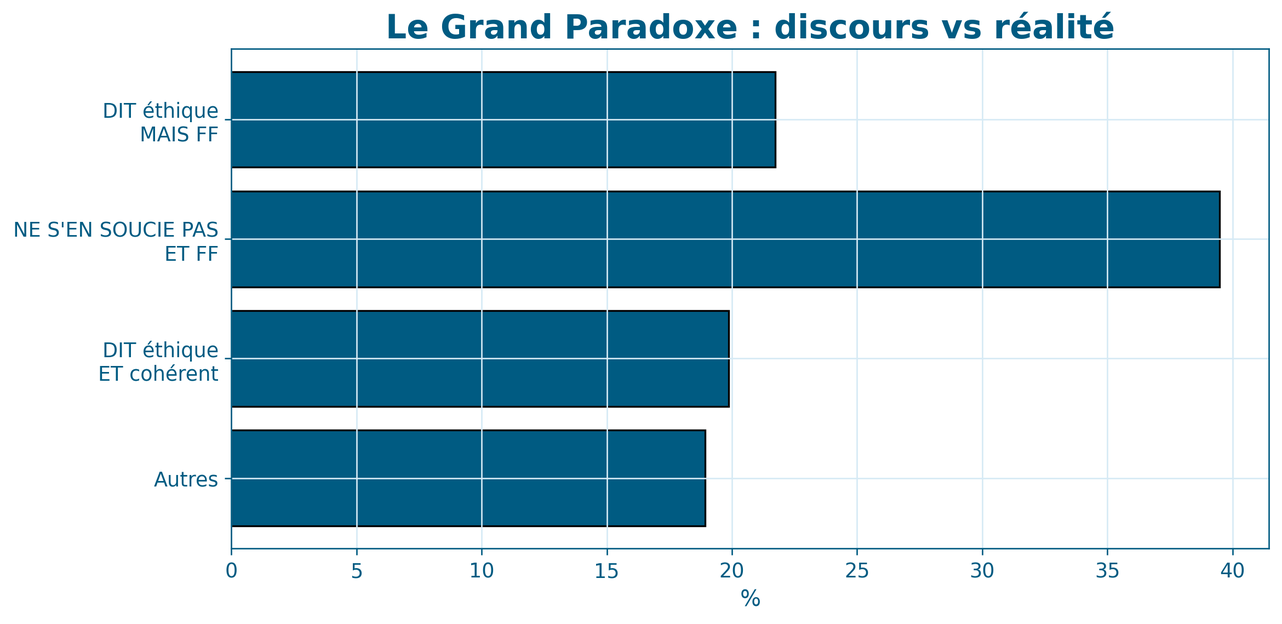
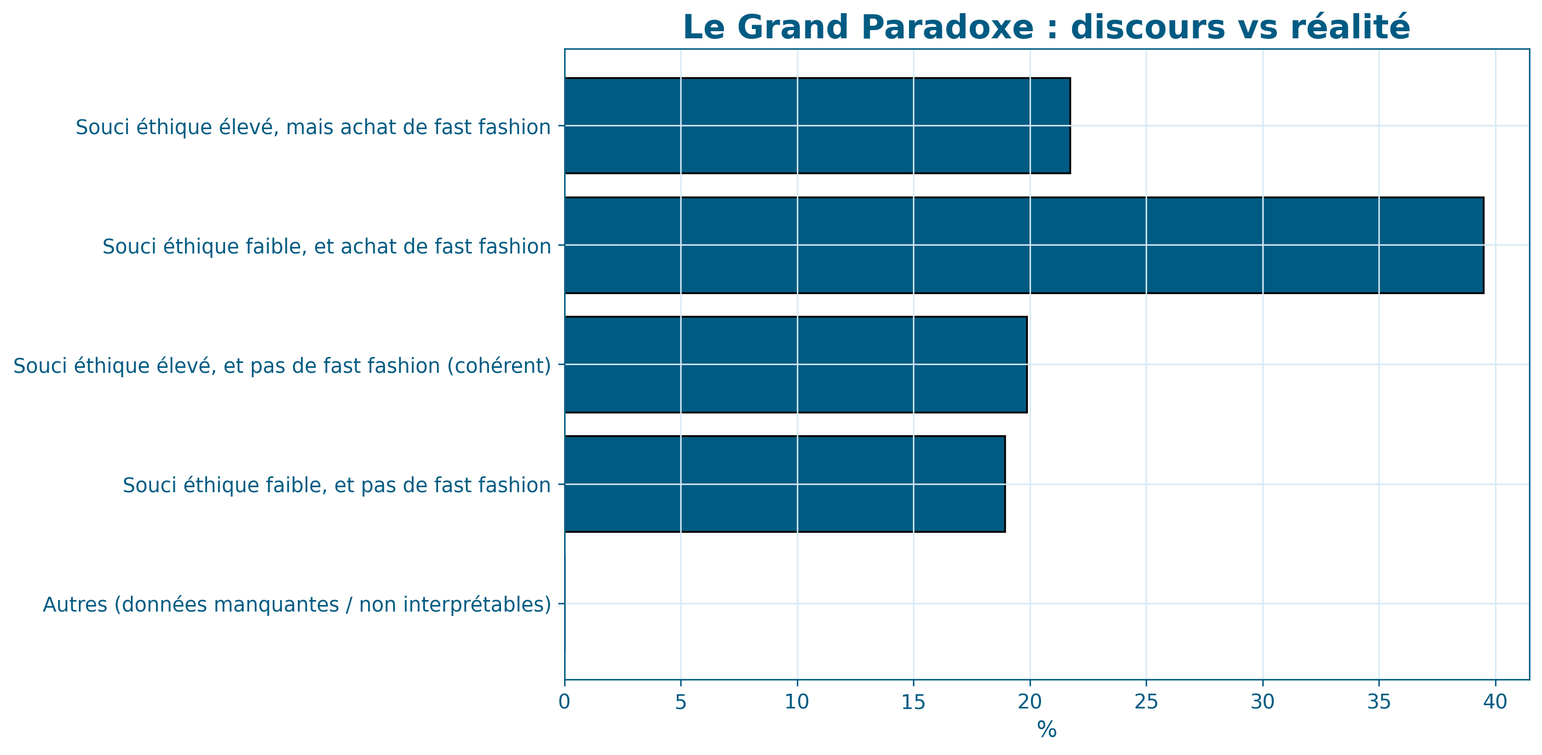
update visuals and paradoxe labels

diff --git a/reports/sankey_cycle_complet_4_etapes.html b/reports/sankey_cycle_complet_4_etapes.html
@@ -2,6 +2,6 @@
 <head><meta charset="utf-8" /></head>
 <body>
     <div>                        <script type="text/javascript">window.PlotlyConfig = {MathJaxConfig: 'local'};</script>
-        <script charset="utf-8" src="https://cdn.plot.ly/plotly-2.24.1.min.js"></script>                <div id="2e2feb70-bd9f-4e1d-afcc-3029fe0908e0" class="plotly-graph-div" style="height:100%; width:100%;"></div>            <script type="text/javascript">                                    window.PLOTLYENV=window.PLOTLYENV || {};                                    if (document.getElementById("2e2feb70-bd9f-4e1d-afcc-3029fe0908e0")) {                    Plotly.newPlot(                        "2e2feb70-bd9f-4e1d-afcc-3029fe0908e0",                        [{"link":{"source":[0,1,2,0,1,2,0,1,2,0,1,2,0,1,7,0,1,7,0,1,7,0,1,7,0,1,7,0,9,10,0,9,10,0,9,2,0,9,2,0,9,2,0,9,2,0,9,2,0,9,7,0,9,7,0,9,7,0,9,7,0,9,7,0,11,10,0,11,10,0,11,2,0,11,2,0,11,2,0,11,2,0,11,2,0,11,7,0,11,7,0,11,7,0,11,7,0,11,7,0,12,2,0,12,7,0,12,7,0,12,7,0,12,7,13,1,2,13,1,2,13,1,2,13,1,2,13,1,2,13,1,7,13,1,7,13,1,7,13,1,7,13,1,7,13,9,10,13,9,2,13,9,2,13,9,2,13,9,2,13,9,2,13,9,7,13,9,7,13,9,7,13,9,7,13,9,7,13,11,10,13,11,2,13,11,2,13,11,2,13,11,2,13,11,2,13,11,7,13,11,7,13,11,7,13,11,7,13,11,7,13,12,7,13,12,7,13,12,7,14,1,7,14,1,7,14,1,7,14,1,7,14,9,2,14,9,2,14,9,2,14,9,7,14,9,7,14,9,7,14,9,7,14,11,2,14,11,2,14,11,2,14,11,7,14,11,7,14,11,7,14,11,7,14,12,7,14,12,7,15,1,10,15,1,2,15,1,7,15,1,7,15,1,7,15,1,7,15,1,7,15,9,2,15,9,2,15,9,2,15,9,2,15,9,7,15,9,7,15,9,7,15,9,7,15,9,7,15,11,10,15,11,2,15,11,2,15,11,2,15,11,2,15,11,2,15,12,10,16,1,2,16,1,2,16,1,2,16,1,2,16,1,2,16,1,7,16,1,7,16,1,7,16,1,7,16,1,7,16,9,2,16,9,2,16,9,2,16,9,2,16,9,2,16,9,7,16,9,7,16,9,7,16,9,7,16,9,7,16,11,10,16,11,10,16,11,2,16,11,2,16,11,2,16,11,2,16,11,2,16,11,7,16,11,7,16,11,7,16,11,7,16,11,7,16,12,2,16,12,2,16,12,2,16,12,2,16,12,2,16,12,7,16,12,7,16,12,7,16,12,7,16,12,7,17,1,2,17,1,2,17,1,2,17,1,2,17,1,2,17,1,7,17,1,7,17,1,7,17,1,7,17,1,7,17,9,10,17,9,10,17,9,10,17,9,2,17,9,2,17,9,2,17,9,2,17,9,2,17,9,7,17,9,7,17,9,7,17,9,7,17,9,7,17,11,10,17,11,10,17,11,2,17,11,2,17,11,2,17,11,2,17,11,2,17,11,7,17,11,7,17,11,7,17,11,7,17,11,7,17,12,10,17,12,2,17,12,2,17,12,2,17,12,7,17,12,7,17,12,7,17,12,7],"target":[1,2,3,1,2,4,1,2,5,1,2,6,1,7,3,1,7,4,1,7,8,1,7,5,1,7,6,9,10,3,9,10,8,9,2,3,9,2,4,9,2,8,9,2,5,9,2,6,9,7,3,9,7,4,9,7,8,9,7,5,9,7,6,11,10,3,11,10,8,11,2,3,11,2,4,11,2,8,11,2,5,11,2,6,11,7,3,11,7,4,11,7,8,11,7,5,11,7,6,12,2,5,12,7,3,12,7,4,12,7,5,12,7,6,1,2,3,1,2,4,1,2,8,1,2,5,1,2,6,1,7,3,1,7,4,1,7,8,1,7,5,1,7,6,9,10,6,9,2,3,9,2,4,9,2,8,9,2,5,9,2,6,9,7,3,9,7,4,9,7,8,9,7,5,9,7,6,11,10,6,11,2,3,11,2,4,11,2,8,11,2,5,11,2,6,11,7,3,11,7,4,11,7,8,11,7,5,11,7,6,12,7,3,12,7,5,12,7,6,1,7,3,1,7,4,1,7,5,1,7,6,9,2,3,9,2,4,9,2,5,9,7,3,9,7,4,9,7,5,9,7,6,11,2,3,11,2,4,11,2,5,11,7,3,11,7,4,11,7,5,11,7,6,12,7,3,12,7,4,1,10,4,1,2,3,1,7,3,1,7,4,1,7,8,1,7,5,1,7,6,9,2,3,9,2,4,9,2,8,9,2,6,9,7,3,9,7,4,9,7,8,9,7,5,9,7,6,11,10,8,11,2,3,11,2,4,11,2,8,11,2,5,11,2,6,12,10,4,1,2,3,1,2,4,1,2,8,1,2,5,1,2,6,1,7,3,1,7,4,1,7,8,1,7,5,1,7,6,9,2,3,9,2,4,9,2,8,9,2,5,9,2,6,9,7,3,9,7,4,9,7,8,9,7,5,9,7,6,11,10,3,11,10,4,11,2,3,11,2,4,11,2,8,11,2,5,11,2,6,11,7,3,11,7,4,11,7,8,11,7,5,11,7,6,12,2,3,12,2,4,12,2,8,12,2,5,12,2,6,12,7,3,12,7,4,12,7,8,12,7,5,12,7,6,1,2,3,1,2,4,1,2,8,1,2,5,1,2,6,1,7,3,1,7,4,1,7,8,1,7,5,1,7,6,9,10,3,9,10,8,9,10,5,9,2,3,9,2,4,9,2,8,9,2,5,9,2,6,9,7,3,9,7,4,9,7,8,9,7,5,9,7,6,11,10,3,11,10,8,11,2,3,11,2,4,11,2,8,11,2,5,11,2,6,11,7,3,11,7,4,11,7,8,11,7,5,11,7,6,12,10,3,12,2,3,12,2,4,12,2,6,12,7,3,12,7,4,12,7,8,12,7,6],"value":[3,3,3,2,2,2,2,2,2,2,2,2,8,8,8,4,4,4,1,1,1,5,5,5,6,6,6,1,1,1,2,2,2,4,4,4,2,2,2,1,1,1,3,3,3,2,2,2,12,12,12,5,5,5,1,1,1,3,3,3,8,8,8,1,1,1,1,1,1,20,20,20,6,6,6,5,5,5,7,7,7,9,9,9,17,17,17,9,9,9,3,3,3,3,3,3,7,7,7,1,1,1,3,3,3,2,2,2,2,2,2,1,1,1,4,4,4,4,4,4,1,1,1,1,1,1,4,4,4,10,10,10,7,7,7,2,2,2,4,4,4,6,6,6,1,1,1,10,10,10,6,6,6,1,1,1,1,1,1,7,7,7,37,37,37,20,20,20,6,6,6,7,7,7,27,27,27,1,1,1,19,19,19,7,7,7,3,3,3,1,1,1,15,15,15,40,40,40,18,18,18,9,9,9,9,9,9,28,28,28,5,5,5,1,1,1,2,2,2,2,2,2,1,1,1,1,1,1,1,1,1,3,3,3,1,1,1,1,1,1,10,10,10,3,3,3,1,1,1,5,5,5,2,2,2,1,1,1,1,1,1,8,8,8,4,4,4,1,1,1,6,6,6,1,1,1,1,1,1,1,1,1,1,1,1,3,3,3,1,1,1,1,1,1,3,3,3,1,1,1,1,1,1,1,1,1,1,1,1,1,1,1,3,3,3,1,1,1,1,1,1,3,3,3,1,1,1,2,2,2,4,4,4,1,1,1,1,1,1,1,1,1,2,2,2,2,2,2,10,10,10,5,5,5,2,2,2,5,5,5,5,5,5,19,19,19,11,11,11,4,4,4,6,6,6,18,18,18,8,8,8,5,5,5,4,4,4,3,3,3,6,6,6,38,38,38,21,21,21,11,11,11,10,10,10,14,14,14,2,2,2,1,1,1,25,25,25,9,9,9,4,4,4,7,7,7,12,12,12,56,56,56,33,33,33,12,12,12,17,17,17,28,28,28,3,3,3,1,1,1,1,1,1,3,3,3,1,1,1,9,9,9,2,2,2,4,4,4,3,3,3,7,7,7,10,10,10,6,6,6,1,1,1,5,5,5,4,4,4,11,11,11,4,4,4,5,5,5,1,1,1,7,7,7,1,1,1,1,1,1,1,1,1,15,15,15,8,8,8,2,2,2,10,10,10,5,5,5,34,34,34,21,21,21,15,15,15,6,6,6,21,21,21,2,2,2,1,1,1,29,29,29,16,16,16,7,7,7,12,12,12,11,11,11,38,38,38,21,21,21,14,14,14,9,9,9,25,25,25,1,1,1,2,2,2,1,1,1,1,1,1,4,4,4,3,3,3,3,3,3,2,2,2]},"node":{"color":"#007BA7","label":["Au moins une fois par an","Friperie \u002f Seconde main","Non, mais je connais ces plateformes","Je les donne","Je les garde sans les utiliser","Je les recycle","Je les vends","Oui","Je les jette","Internet","Non, je ne connais pas ces plateformes","Magasin physique","March\u00e9 local","Au moins une fois par mois","Au moins une fois par semaine","Moins d'une fois par an","Tous les 2 \u00e0 3 mois","Tous les 4 \u00e0 6 mois"],"pad":15,"thickness":18},"type":"sankey"}],                        {"template":{"data":{"histogram2dcontour":[{"type":"histogram2dcontour","colorbar":{"outlinewidth":0,"ticks":""},"colorscale":[[0.0,"#0d0887"],[0.1111111111111111,"#46039f"],[0.2222222222222222,"#7201a8"],[0.3333333333333333,"#9c179e"],[0.4444444444444444,"#bd3786"],[0.5555555555555556,"#d8576b"],[0.6666666666666666,"#ed7953"],[0.7777777777777778,"#fb9f3a"],[0.8888888888888888,"#fdca26"],[1.0,"#f0f921"]]}],"choropleth":[{"type":"choropleth","colorbar":{"outlinewidth":0,"ticks":""}}],"histogram2d":[{"type":"histogram2d","colorbar":{"outlinewidth":0,"ticks":""},"colorscale":[[0.0,"#0d0887"],[0.1111111111111111,"#46039f"],[0.2222222222222222,"#7201a8"],[0.3333333333333333,"#9c179e"],[0.4444444444444444,"#bd3786"],[0.5555555555555556,"#d8576b"],[0.6666666666666666,"#ed7953"],[0.7777777777777778,"#fb9f3a"],[0.8888888888888888,"#fdca26"],[1.0,"#f0f921"]]}],"heatmap":[{"type":"heatmap","colorbar":{"outlinewidth":0,"ticks":""},"colorscale":[[0.0,"#0d0887"],[0.1111111111111111,"#46039f"],[0.2222222222222222,"#7201a8"],[0.3333333333333333,"#9c179e"],[0.4444444444444444,"#bd3786"],[0.5555555555555556,"#d8576b"],[0.6666666666666666,"#ed7953"],[0.7777777777777778,"#fb9f3a"],[0.8888888888888888,"#fdca26"],[1.0,"#f0f921"]]}],"heatmapgl":[{"type":"heatmapgl","colorbar":{"outlinewidth":0,"ticks":""},"colorscale":[[0.0,"#0d0887"],[0.1111111111111111,"#46039f"],[0.2222222222222222,"#7201a8"],[0.3333333333333333,"#9c179e"],[0.4444444444444444,"#bd3786"],[0.5555555555555556,"#d8576b"],[0.6666666666666666,"#ed7953"],[0.7777777777777778,"#fb9f3a"],[0.8888888888888888,"#fdca26"],[1.0,"#f0f921"]]}],"contourcarpet":[{"type":"contourcarpet","colorbar":{"outlinewidth":0,"ticks":""}}],"contour":[{"type":"contour","colorbar":{"outlinewidth":0,"ticks":""},"colorscale":[[0.0,"#0d0887"],[0.1111111111111111,"#46039f"],[0.2222222222222222,"#7201a8"],[0.3333333333333333,"#9c179e"],[0.4444444444444444,"#bd3786"],[0.5555555555555556,"#d8576b"],[0.6666666666666666,"#ed7953"],[0.7777777777777778,"#fb9f3a"],[0.8888888888888888,"#fdca26"],[1.0,"#f0f921"]]}],"surface":[{"type":"surface","colorbar":{"outlinewidth":0,"ticks":""},"colorscale":[[0.0,"#0d0887"],[0.1111111111111111,"#46039f"],[0.2222222222222222,"#7201a8"],[0.3333333333333333,"#9c179e"],[0.4444444444444444,"#bd3786"],[0.5555555555555556,"#d8576b"],[0.6666666666666666,"#ed7953"],[0.7777777777777778,"#fb9f3a"],[0.8888888888888888,"#fdca26"],[1.0,"#f0f921"]]}],"mesh3d":[{"type":"mesh3d","colorbar":{"outlinewidth":0,"ticks":""}}],"scatter":[{"fillpattern":{"fillmode":"overlay","size":10,"solidity":0.2},"type":"scatter"}],"parcoords":[{"type":"parcoords","line":{"colorbar":{"outlinewidth":0,"ticks":""}}}],"scatterpolargl":[{"type":"scatterpolargl","marker":{"colorbar":{"outlinewidth":0,"ticks":""}}}],"bar":[{"error_x":{"color":"#2a3f5f"},"error_y":{"color":"#2a3f5f"},"marker":{"line":{"color":"#E5ECF6","width":0.5},"pattern":{"fillmode":"overlay","size":10,"solidity":0.2}},"type":"bar"}],"scattergeo":[{"type":"scattergeo","marker":{"colorbar":{"outlinewidth":0,"ticks":""}}}],"scatterpolar":[{"type":"scatterpolar","marker":{"colorbar":{"outlinewidth":0,"ticks":""}}}],"histogram":[{"marker":{"pattern":{"fillmode":"overlay","size":10,"solidity":0.2}},"type":"histogram"}],"scattergl":[{"type":"scattergl","marker":{"colorbar":{"outlinewidth":0,"ticks":""}}}],"scatter3d":[{"type":"scatter3d","line":{"colorbar":{"outlinewidth":0,"ticks":""}},"marker":{"colorbar":{"outlinewidth":0,"ticks":""}}}],"scattermapbox":[{"type":"scattermapbox","marker":{"colorbar":{"outlinewidth":0,"ticks":""}}}],"scatterternary":[{"type":"scatterternary","marker":{"colorbar":{"outlinewidth":0,"ticks":""}}}],"scattercarpet":[{"type":"scattercarpet","marker":{"colorbar":{"outlinewidth":0,"ticks":""}}}],"carpet":[{"aaxis":{"endlinecolor":"#2a3f5f","gridcolor":"white","linecolor":"white","minorgridcolor":"white","startlinecolor":"#2a3f5f"},"baxis":{"endlinecolor":"#2a3f5f","gridcolor":"white","linecolor":"white","minorgridcolor":"white","startlinecolor":"#2a3f5f"},"type":"carpet"}],"table":[{"cells":{"fill":{"color":"#EBF0F8"},"line":{"color":"white"}},"header":{"fill":{"color":"#C8D4E3"},"line":{"color":"white"}},"type":"table"}],"barpolar":[{"marker":{"line":{"color":"#E5ECF6","width":0.5},"pattern":{"fillmode":"overlay","size":10,"solidity":0.2}},"type":"barpolar"}],"pie":[{"automargin":true,"type":"pie"}]},"layout":{"autotypenumbers":"strict","colorway":["#636efa","#EF553B","#00cc96","#ab63fa","#FFA15A","#19d3f3","#FF6692","#B6E880","#FF97FF","#FECB52"],"font":{"color":"#2a3f5f"},"hovermode":"closest","hoverlabel":{"align":"left"},"paper_bgcolor":"white","plot_bgcolor":"#E5ECF6","polar":{"bgcolor":"#E5ECF6","angularaxis":{"gridcolor":"white","linecolor":"white","ticks":""},"radialaxis":{"gridcolor":"white","linecolor":"white","ticks":""}},"ternary":{"bgcolor":"#E5ECF6","aaxis":{"gridcolor":"white","linecolor":"white","ticks":""},"baxis":{"gridcolor":"white","linecolor":"white","ticks":""},"caxis":{"gridcolor":"white","linecolor":"white","ticks":""}},"coloraxis":{"colorbar":{"outlinewidth":0,"ticks":""}},"colorscale":{"sequential":[[0.0,"#0d0887"],[0.1111111111111111,"#46039f"],[0.2222222222222222,"#7201a8"],[0.3333333333333333,"#9c179e"],[0.4444444444444444,"#bd3786"],[0.5555555555555556,"#d8576b"],[0.6666666666666666,"#ed7953"],[0.7777777777777778,"#fb9f3a"],[0.8888888888888888,"#fdca26"],[1.0,"#f0f921"]],"sequentialminus":[[0.0,"#0d0887"],[0.1111111111111111,"#46039f"],[0.2222222222222222,"#7201a8"],[0.3333333333333333,"#9c179e"],[0.4444444444444444,"#bd3786"],[0.5555555555555556,"#d8576b"],[0.6666666666666666,"#ed7953"],[0.7777777777777778,"#fb9f3a"],[0.8888888888888888,"#fdca26"],[1.0,"#f0f921"]],"diverging":[[0,"#8e0152"],[0.1,"#c51b7d"],[0.2,"#de77ae"],[0.3,"#f1b6da"],[0.4,"#fde0ef"],[0.5,"#f7f7f7"],[0.6,"#e6f5d0"],[0.7,"#b8e186"],[0.8,"#7fbc41"],[0.9,"#4d9221"],[1,"#276419"]]},"xaxis":{"gridcolor":"white","linecolor":"white","ticks":"","title":{"standoff":15},"zerolinecolor":"white","automargin":true,"zerolinewidth":2},"yaxis":{"gridcolor":"white","linecolor":"white","ticks":"","title":{"standoff":15},"zerolinecolor":"white","automargin":true,"zerolinewidth":2},"scene":{"xaxis":{"backgroundcolor":"#E5ECF6","gridcolor":"white","linecolor":"white","showbackground":true,"ticks":"","zerolinecolor":"white","gridwidth":2},"yaxis":{"backgroundcolor":"#E5ECF6","gridcolor":"white","linecolor":"white","showbackground":true,"ticks":"","zerolinecolor":"white","gridwidth":2},"zaxis":{"backgroundcolor":"#E5ECF6","gridcolor":"white","linecolor":"white","showbackground":true,"ticks":"","zerolinecolor":"white","gridwidth":2}},"shapedefaults":{"line":{"color":"#2a3f5f"}},"annotationdefaults":{"arrowcolor":"#2a3f5f","arrowhead":0,"arrowwidth":1},"geo":{"bgcolor":"white","landcolor":"#E5ECF6","subunitcolor":"white","showland":true,"showlakes":true,"lakecolor":"white"},"title":{"x":0.05},"mapbox":{"style":"light"}}},"title":{"text":"Cycle complet (Sankey - 4 \u00e9tapes, nettoy\u00e9)"},"font":{"size":10}},                        {"responsive": true}                    )                };                            </script>        </div>
+        <script charset="utf-8" src="https://cdn.plot.ly/plotly-2.24.1.min.js"></script>                <div id="52549331-e9a0-4959-b099-cc36701b4a4d" class="plotly-graph-div" style="height:100%; width:100%;"></div>            <script type="text/javascript">                                    window.PLOTLYENV=window.PLOTLYENV || {};                                    if (document.getElementById("52549331-e9a0-4959-b099-cc36701b4a4d")) {                    Plotly.newPlot(                        "52549331-e9a0-4959-b099-cc36701b4a4d",                        [{"link":{"source":[0,1,2,0,1,2,0,1,2,0,1,2,0,1,7,0,1,7,0,1,7,0,1,7,0,1,7,0,9,10,0,9,10,0,9,2,0,9,2,0,9,2,0,9,2,0,9,2,0,9,7,0,9,7,0,9,7,0,9,7,0,9,7,0,11,10,0,11,10,0,11,2,0,11,2,0,11,2,0,11,2,0,11,2,0,11,7,0,11,7,0,11,7,0,11,7,0,11,7,0,12,2,0,12,7,0,12,7,0,12,7,0,12,7,13,1,2,13,1,2,13,1,2,13,1,2,13,1,2,13,1,7,13,1,7,13,1,7,13,1,7,13,1,7,13,9,10,13,9,2,13,9,2,13,9,2,13,9,2,13,9,2,13,9,7,13,9,7,13,9,7,13,9,7,13,9,7,13,11,10,13,11,2,13,11,2,13,11,2,13,11,2,13,11,2,13,11,7,13,11,7,13,11,7,13,11,7,13,11,7,13,12,7,13,12,7,13,12,7,14,1,7,14,1,7,14,1,7,14,1,7,14,9,2,14,9,2,14,9,2,14,9,7,14,9,7,14,9,7,14,9,7,14,11,2,14,11,2,14,11,2,14,11,7,14,11,7,14,11,7,14,11,7,14,12,7,14,12,7,15,1,10,15,1,2,15,1,7,15,1,7,15,1,7,15,1,7,15,1,7,15,9,2,15,9,2,15,9,2,15,9,2,15,9,7,15,9,7,15,9,7,15,9,7,15,9,7,15,11,10,15,11,2,15,11,2,15,11,2,15,11,2,15,11,2,15,12,10,16,1,2,16,1,2,16,1,2,16,1,2,16,1,2,16,1,7,16,1,7,16,1,7,16,1,7,16,1,7,16,9,2,16,9,2,16,9,2,16,9,2,16,9,2,16,9,7,16,9,7,16,9,7,16,9,7,16,9,7,16,11,10,16,11,10,16,11,2,16,11,2,16,11,2,16,11,2,16,11,2,16,11,7,16,11,7,16,11,7,16,11,7,16,11,7,16,12,2,16,12,2,16,12,2,16,12,2,16,12,2,16,12,7,16,12,7,16,12,7,16,12,7,16,12,7,17,1,2,17,1,2,17,1,2,17,1,2,17,1,2,17,1,7,17,1,7,17,1,7,17,1,7,17,1,7,17,9,10,17,9,10,17,9,10,17,9,2,17,9,2,17,9,2,17,9,2,17,9,2,17,9,7,17,9,7,17,9,7,17,9,7,17,9,7,17,11,10,17,11,10,17,11,2,17,11,2,17,11,2,17,11,2,17,11,2,17,11,7,17,11,7,17,11,7,17,11,7,17,11,7,17,12,10,17,12,2,17,12,2,17,12,2,17,12,7,17,12,7,17,12,7,17,12,7],"target":[1,2,3,1,2,4,1,2,5,1,2,6,1,7,3,1,7,4,1,7,8,1,7,5,1,7,6,9,10,3,9,10,8,9,2,3,9,2,4,9,2,8,9,2,5,9,2,6,9,7,3,9,7,4,9,7,8,9,7,5,9,7,6,11,10,3,11,10,8,11,2,3,11,2,4,11,2,8,11,2,5,11,2,6,11,7,3,11,7,4,11,7,8,11,7,5,11,7,6,12,2,5,12,7,3,12,7,4,12,7,5,12,7,6,1,2,3,1,2,4,1,2,8,1,2,5,1,2,6,1,7,3,1,7,4,1,7,8,1,7,5,1,7,6,9,10,6,9,2,3,9,2,4,9,2,8,9,2,5,9,2,6,9,7,3,9,7,4,9,7,8,9,7,5,9,7,6,11,10,6,11,2,3,11,2,4,11,2,8,11,2,5,11,2,6,11,7,3,11,7,4,11,7,8,11,7,5,11,7,6,12,7,3,12,7,5,12,7,6,1,7,3,1,7,4,1,7,5,1,7,6,9,2,3,9,2,4,9,2,5,9,7,3,9,7,4,9,7,5,9,7,6,11,2,3,11,2,4,11,2,5,11,7,3,11,7,4,11,7,5,11,7,6,12,7,3,12,7,4,1,10,4,1,2,3,1,7,3,1,7,4,1,7,8,1,7,5,1,7,6,9,2,3,9,2,4,9,2,8,9,2,6,9,7,3,9,7,4,9,7,8,9,7,5,9,7,6,11,10,8,11,2,3,11,2,4,11,2,8,11,2,5,11,2,6,12,10,4,1,2,3,1,2,4,1,2,8,1,2,5,1,2,6,1,7,3,1,7,4,1,7,8,1,7,5,1,7,6,9,2,3,9,2,4,9,2,8,9,2,5,9,2,6,9,7,3,9,7,4,9,7,8,9,7,5,9,7,6,11,10,3,11,10,4,11,2,3,11,2,4,11,2,8,11,2,5,11,2,6,11,7,3,11,7,4,11,7,8,11,7,5,11,7,6,12,2,3,12,2,4,12,2,8,12,2,5,12,2,6,12,7,3,12,7,4,12,7,8,12,7,5,12,7,6,1,2,3,1,2,4,1,2,8,1,2,5,1,2,6,1,7,3,1,7,4,1,7,8,1,7,5,1,7,6,9,10,3,9,10,8,9,10,5,9,2,3,9,2,4,9,2,8,9,2,5,9,2,6,9,7,3,9,7,4,9,7,8,9,7,5,9,7,6,11,10,3,11,10,8,11,2,3,11,2,4,11,2,8,11,2,5,11,2,6,11,7,3,11,7,4,11,7,8,11,7,5,11,7,6,12,10,3,12,2,3,12,2,4,12,2,6,12,7,3,12,7,4,12,7,8,12,7,6],"value":[3,3,3,2,2,2,2,2,2,2,2,2,8,8,8,4,4,4,1,1,1,5,5,5,6,6,6,1,1,1,2,2,2,4,4,4,2,2,2,1,1,1,3,3,3,2,2,2,12,12,12,5,5,5,1,1,1,3,3,3,8,8,8,1,1,1,1,1,1,20,20,20,6,6,6,5,5,5,7,7,7,9,9,9,17,17,17,9,9,9,3,3,3,3,3,3,7,7,7,1,1,1,3,3,3,2,2,2,2,2,2,1,1,1,4,4,4,4,4,4,1,1,1,1,1,1,4,4,4,10,10,10,7,7,7,2,2,2,4,4,4,6,6,6,1,1,1,10,10,10,6,6,6,1,1,1,1,1,1,7,7,7,37,37,37,20,20,20,6,6,6,7,7,7,27,27,27,1,1,1,19,19,19,7,7,7,3,3,3,1,1,1,15,15,15,40,40,40,18,18,18,9,9,9,9,9,9,28,28,28,5,5,5,1,1,1,2,2,2,2,2,2,1,1,1,1,1,1,1,1,1,3,3,3,1,1,1,1,1,1,10,10,10,3,3,3,1,1,1,5,5,5,2,2,2,1,1,1,1,1,1,8,8,8,4,4,4,1,1,1,6,6,6,1,1,1,1,1,1,1,1,1,1,1,1,3,3,3,1,1,1,1,1,1,3,3,3,1,1,1,1,1,1,1,1,1,1,1,1,1,1,1,3,3,3,1,1,1,1,1,1,3,3,3,1,1,1,2,2,2,4,4,4,1,1,1,1,1,1,1,1,1,2,2,2,2,2,2,10,10,10,5,5,5,2,2,2,5,5,5,5,5,5,19,19,19,11,11,11,4,4,4,6,6,6,18,18,18,8,8,8,5,5,5,4,4,4,3,3,3,6,6,6,38,38,38,21,21,21,11,11,11,10,10,10,14,14,14,2,2,2,1,1,1,25,25,25,9,9,9,4,4,4,7,7,7,12,12,12,56,56,56,33,33,33,12,12,12,17,17,17,28,28,28,3,3,3,1,1,1,1,1,1,3,3,3,1,1,1,9,9,9,2,2,2,4,4,4,3,3,3,7,7,7,10,10,10,6,6,6,1,1,1,5,5,5,4,4,4,11,11,11,4,4,4,5,5,5,1,1,1,7,7,7,1,1,1,1,1,1,1,1,1,15,15,15,8,8,8,2,2,2,10,10,10,5,5,5,34,34,34,21,21,21,15,15,15,6,6,6,21,21,21,2,2,2,1,1,1,29,29,29,16,16,16,7,7,7,12,12,12,11,11,11,38,38,38,21,21,21,14,14,14,9,9,9,25,25,25,1,1,1,2,2,2,1,1,1,1,1,1,4,4,4,3,3,3,3,3,3,2,2,2]},"node":{"color":"#007BA7","label":["Au moins une fois par an","Friperie \u002f Seconde main","Non, mais je connais ces plateformes","Je les donne","Je les garde sans les utiliser","Je les recycle","Je les vends","Oui","Je les jette","Internet","Non, je ne connais pas ces plateformes","Magasin physique","March\u00e9 local","Au moins une fois par mois","Au moins une fois par semaine","Moins d'une fois par an","Tous les 2 \u00e0 3 mois","Tous les 4 \u00e0 6 mois"],"pad":15,"thickness":18},"type":"sankey"}],                        {"template":{"data":{"histogram2dcontour":[{"type":"histogram2dcontour","colorbar":{"outlinewidth":0,"ticks":""},"colorscale":[[0.0,"#0d0887"],[0.1111111111111111,"#46039f"],[0.2222222222222222,"#7201a8"],[0.3333333333333333,"#9c179e"],[0.4444444444444444,"#bd3786"],[0.5555555555555556,"#d8576b"],[0.6666666666666666,"#ed7953"],[0.7777777777777778,"#fb9f3a"],[0.8888888888888888,"#fdca26"],[1.0,"#f0f921"]]}],"choropleth":[{"type":"choropleth","colorbar":{"outlinewidth":0,"ticks":""}}],"histogram2d":[{"type":"histogram2d","colorbar":{"outlinewidth":0,"ticks":""},"colorscale":[[0.0,"#0d0887"],[0.1111111111111111,"#46039f"],[0.2222222222222222,"#7201a8"],[0.3333333333333333,"#9c179e"],[0.4444444444444444,"#bd3786"],[0.5555555555555556,"#d8576b"],[0.6666666666666666,"#ed7953"],[0.7777777777777778,"#fb9f3a"],[0.8888888888888888,"#fdca26"],[1.0,"#f0f921"]]}],"heatmap":[{"type":"heatmap","colorbar":{"outlinewidth":0,"ticks":""},"colorscale":[[0.0,"#0d0887"],[0.1111111111111111,"#46039f"],[0.2222222222222222,"#7201a8"],[0.3333333333333333,"#9c179e"],[0.4444444444444444,"#bd3786"],[0.5555555555555556,"#d8576b"],[0.6666666666666666,"#ed7953"],[0.7777777777777778,"#fb9f3a"],[0.8888888888888888,"#fdca26"],[1.0,"#f0f921"]]}],"heatmapgl":[{"type":"heatmapgl","colorbar":{"outlinewidth":0,"ticks":""},"colorscale":[[0.0,"#0d0887"],[0.1111111111111111,"#46039f"],[0.2222222222222222,"#7201a8"],[0.3333333333333333,"#9c179e"],[0.4444444444444444,"#bd3786"],[0.5555555555555556,"#d8576b"],[0.6666666666666666,"#ed7953"],[0.7777777777777778,"#fb9f3a"],[0.8888888888888888,"#fdca26"],[1.0,"#f0f921"]]}],"contourcarpet":[{"type":"contourcarpet","colorbar":{"outlinewidth":0,"ticks":""}}],"contour":[{"type":"contour","colorbar":{"outlinewidth":0,"ticks":""},"colorscale":[[0.0,"#0d0887"],[0.1111111111111111,"#46039f"],[0.2222222222222222,"#7201a8"],[0.3333333333333333,"#9c179e"],[0.4444444444444444,"#bd3786"],[0.5555555555555556,"#d8576b"],[0.6666666666666666,"#ed7953"],[0.7777777777777778,"#fb9f3a"],[0.8888888888888888,"#fdca26"],[1.0,"#f0f921"]]}],"surface":[{"type":"surface","colorbar":{"outlinewidth":0,"ticks":""},"colorscale":[[0.0,"#0d0887"],[0.1111111111111111,"#46039f"],[0.2222222222222222,"#7201a8"],[0.3333333333333333,"#9c179e"],[0.4444444444444444,"#bd3786"],[0.5555555555555556,"#d8576b"],[0.6666666666666666,"#ed7953"],[0.7777777777777778,"#fb9f3a"],[0.8888888888888888,"#fdca26"],[1.0,"#f0f921"]]}],"mesh3d":[{"type":"mesh3d","colorbar":{"outlinewidth":0,"ticks":""}}],"scatter":[{"fillpattern":{"fillmode":"overlay","size":10,"solidity":0.2},"type":"scatter"}],"parcoords":[{"type":"parcoords","line":{"colorbar":{"outlinewidth":0,"ticks":""}}}],"scatterpolargl":[{"type":"scatterpolargl","marker":{"colorbar":{"outlinewidth":0,"ticks":""}}}],"bar":[{"error_x":{"color":"#2a3f5f"},"error_y":{"color":"#2a3f5f"},"marker":{"line":{"color":"#E5ECF6","width":0.5},"pattern":{"fillmode":"overlay","size":10,"solidity":0.2}},"type":"bar"}],"scattergeo":[{"type":"scattergeo","marker":{"colorbar":{"outlinewidth":0,"ticks":""}}}],"scatterpolar":[{"type":"scatterpolar","marker":{"colorbar":{"outlinewidth":0,"ticks":""}}}],"histogram":[{"marker":{"pattern":{"fillmode":"overlay","size":10,"solidity":0.2}},"type":"histogram"}],"scattergl":[{"type":"scattergl","marker":{"colorbar":{"outlinewidth":0,"ticks":""}}}],"scatter3d":[{"type":"scatter3d","line":{"colorbar":{"outlinewidth":0,"ticks":""}},"marker":{"colorbar":{"outlinewidth":0,"ticks":""}}}],"scattermapbox":[{"type":"scattermapbox","marker":{"colorbar":{"outlinewidth":0,"ticks":""}}}],"scatterternary":[{"type":"scatterternary","marker":{"colorbar":{"outlinewidth":0,"ticks":""}}}],"scattercarpet":[{"type":"scattercarpet","marker":{"colorbar":{"outlinewidth":0,"ticks":""}}}],"carpet":[{"aaxis":{"endlinecolor":"#2a3f5f","gridcolor":"white","linecolor":"white","minorgridcolor":"white","startlinecolor":"#2a3f5f"},"baxis":{"endlinecolor":"#2a3f5f","gridcolor":"white","linecolor":"white","minorgridcolor":"white","startlinecolor":"#2a3f5f"},"type":"carpet"}],"table":[{"cells":{"fill":{"color":"#EBF0F8"},"line":{"color":"white"}},"header":{"fill":{"color":"#C8D4E3"},"line":{"color":"white"}},"type":"table"}],"barpolar":[{"marker":{"line":{"color":"#E5ECF6","width":0.5},"pattern":{"fillmode":"overlay","size":10,"solidity":0.2}},"type":"barpolar"}],"pie":[{"automargin":true,"type":"pie"}]},"layout":{"autotypenumbers":"strict","colorway":["#636efa","#EF553B","#00cc96","#ab63fa","#FFA15A","#19d3f3","#FF6692","#B6E880","#FF97FF","#FECB52"],"font":{"color":"#2a3f5f"},"hovermode":"closest","hoverlabel":{"align":"left"},"paper_bgcolor":"white","plot_bgcolor":"#E5ECF6","polar":{"bgcolor":"#E5ECF6","angularaxis":{"gridcolor":"white","linecolor":"white","ticks":""},"radialaxis":{"gridcolor":"white","linecolor":"white","ticks":""}},"ternary":{"bgcolor":"#E5ECF6","aaxis":{"gridcolor":"white","linecolor":"white","ticks":""},"baxis":{"gridcolor":"white","linecolor":"white","ticks":""},"caxis":{"gridcolor":"white","linecolor":"white","ticks":""}},"coloraxis":{"colorbar":{"outlinewidth":0,"ticks":""}},"colorscale":{"sequential":[[0.0,"#0d0887"],[0.1111111111111111,"#46039f"],[0.2222222222222222,"#7201a8"],[0.3333333333333333,"#9c179e"],[0.4444444444444444,"#bd3786"],[0.5555555555555556,"#d8576b"],[0.6666666666666666,"#ed7953"],[0.7777777777777778,"#fb9f3a"],[0.8888888888888888,"#fdca26"],[1.0,"#f0f921"]],"sequentialminus":[[0.0,"#0d0887"],[0.1111111111111111,"#46039f"],[0.2222222222222222,"#7201a8"],[0.3333333333333333,"#9c179e"],[0.4444444444444444,"#bd3786"],[0.5555555555555556,"#d8576b"],[0.6666666666666666,"#ed7953"],[0.7777777777777778,"#fb9f3a"],[0.8888888888888888,"#fdca26"],[1.0,"#f0f921"]],"diverging":[[0,"#8e0152"],[0.1,"#c51b7d"],[0.2,"#de77ae"],[0.3,"#f1b6da"],[0.4,"#fde0ef"],[0.5,"#f7f7f7"],[0.6,"#e6f5d0"],[0.7,"#b8e186"],[0.8,"#7fbc41"],[0.9,"#4d9221"],[1,"#276419"]]},"xaxis":{"gridcolor":"white","linecolor":"white","ticks":"","title":{"standoff":15},"zerolinecolor":"white","automargin":true,"zerolinewidth":2},"yaxis":{"gridcolor":"white","linecolor":"white","ticks":"","title":{"standoff":15},"zerolinecolor":"white","automargin":true,"zerolinewidth":2},"scene":{"xaxis":{"backgroundcolor":"#E5ECF6","gridcolor":"white","linecolor":"white","showbackground":true,"ticks":"","zerolinecolor":"white","gridwidth":2},"yaxis":{"backgroundcolor":"#E5ECF6","gridcolor":"white","linecolor":"white","showbackground":true,"ticks":"","zerolinecolor":"white","gridwidth":2},"zaxis":{"backgroundcolor":"#E5ECF6","gridcolor":"white","linecolor":"white","showbackground":true,"ticks":"","zerolinecolor":"white","gridwidth":2}},"shapedefaults":{"line":{"color":"#2a3f5f"}},"annotationdefaults":{"arrowcolor":"#2a3f5f","arrowhead":0,"arrowwidth":1},"geo":{"bgcolor":"white","landcolor":"#E5ECF6","subunitcolor":"white","showland":true,"showlakes":true,"lakecolor":"white"},"title":{"x":0.05},"mapbox":{"style":"light"}}},"title":{"text":"Cycle complet (Sankey - 4 \u00e9tapes, nettoy\u00e9)"},"font":{"size":10}},                        {"responsive": true}                    )                };                            </script>        </div>
 </body>
 </html>

diff --git a/reports/sankey_parcours_3_etapes.html b/reports/sankey_parcours_3_etapes.html
@@ -2,6 +2,6 @@
 <head><meta charset="utf-8" /></head>
 <body>
     <div>                        <script type="text/javascript">window.PlotlyConfig = {MathJaxConfig: 'local'};</script>
-        <script charset="utf-8" src="https://cdn.plot.ly/plotly-2.24.1.min.js"></script>                <div id="2033eed2-aa30-4f33-9946-780fa4ade88f" class="plotly-graph-div" style="height:100%; width:100%;"></div>            <script type="text/javascript">                                    window.PLOTLYENV=window.PLOTLYENV || {};                                    if (document.getElementById("2033eed2-aa30-4f33-9946-780fa4ade88f")) {                    Plotly.newPlot(                        "2033eed2-aa30-4f33-9946-780fa4ade88f",                        [{"link":{"source":[0,1,0,1,0,4,0,4,0,4,0,6,0,6,0,6,0,7,0,7,8,1,8,1,8,4,8,4,8,4,8,6,8,6,8,6,8,7,9,1,9,4,9,4,9,6,9,6,9,7,10,1,10,1,10,1,10,4,10,4,10,6,10,6,10,7,11,1,11,1,11,4,11,4,11,6,11,6,11,6,11,7,11,7,12,1,12,1,12,4,12,4,12,4,12,6,12,6,12,6,12,7,12,7,12,7],"target":[1,2,1,3,4,5,4,2,4,3,6,5,6,2,6,3,7,2,7,3,1,2,1,3,4,5,4,2,4,3,6,5,6,2,6,3,7,3,1,3,4,2,4,3,6,2,6,3,7,3,1,5,1,2,1,3,4,2,4,3,6,5,6,2,7,5,1,2,1,3,4,2,4,3,6,5,6,2,6,3,7,2,7,3,1,2,1,3,4,5,4,2,4,3,6,5,6,2,6,3,7,5,7,2,7,3],"value":[4,4,8,8,2,2,6,6,15,15,1,1,24,24,18,18,1,1,3,3,6,6,13,13,1,1,13,13,44,44,1,1,27,27,51,51,5,5,2,2,3,3,12,12,2,2,12,12,1,1,1,1,1,1,3,3,1,1,3,3,2,2,4,4,2,2,12,12,25,25,14,14,48,48,3,3,31,31,71,71,4,4,10,10,12,12,13,13,2,2,21,21,43,43,2,2,40,40,49,49,1,1,2,2,5,5]},"node":{"color":"#007BA7","label":["Au moins une fois par an","Friperie \u002f Seconde main","Non, mais je connais ces plateformes","Oui","Internet","Non, je ne connais pas ces plateformes","Magasin physique","March\u00e9 local","Au moins une fois par mois","Au moins une fois par semaine","Moins d'une fois par an","Tous les 2 \u00e0 3 mois","Tous les 4 \u00e0 6 mois"],"pad":15,"thickness":18},"type":"sankey"}],                        {"template":{"data":{"histogram2dcontour":[{"type":"histogram2dcontour","colorbar":{"outlinewidth":0,"ticks":""},"colorscale":[[0.0,"#0d0887"],[0.1111111111111111,"#46039f"],[0.2222222222222222,"#7201a8"],[0.3333333333333333,"#9c179e"],[0.4444444444444444,"#bd3786"],[0.5555555555555556,"#d8576b"],[0.6666666666666666,"#ed7953"],[0.7777777777777778,"#fb9f3a"],[0.8888888888888888,"#fdca26"],[1.0,"#f0f921"]]}],"choropleth":[{"type":"choropleth","colorbar":{"outlinewidth":0,"ticks":""}}],"histogram2d":[{"type":"histogram2d","colorbar":{"outlinewidth":0,"ticks":""},"colorscale":[[0.0,"#0d0887"],[0.1111111111111111,"#46039f"],[0.2222222222222222,"#7201a8"],[0.3333333333333333,"#9c179e"],[0.4444444444444444,"#bd3786"],[0.5555555555555556,"#d8576b"],[0.6666666666666666,"#ed7953"],[0.7777777777777778,"#fb9f3a"],[0.8888888888888888,"#fdca26"],[1.0,"#f0f921"]]}],"heatmap":[{"type":"heatmap","colorbar":{"outlinewidth":0,"ticks":""},"colorscale":[[0.0,"#0d0887"],[0.1111111111111111,"#46039f"],[0.2222222222222222,"#7201a8"],[0.3333333333333333,"#9c179e"],[0.4444444444444444,"#bd3786"],[0.5555555555555556,"#d8576b"],[0.6666666666666666,"#ed7953"],[0.7777777777777778,"#fb9f3a"],[0.8888888888888888,"#fdca26"],[1.0,"#f0f921"]]}],"heatmapgl":[{"type":"heatmapgl","colorbar":{"outlinewidth":0,"ticks":""},"colorscale":[[0.0,"#0d0887"],[0.1111111111111111,"#46039f"],[0.2222222222222222,"#7201a8"],[0.3333333333333333,"#9c179e"],[0.4444444444444444,"#bd3786"],[0.5555555555555556,"#d8576b"],[0.6666666666666666,"#ed7953"],[0.7777777777777778,"#fb9f3a"],[0.8888888888888888,"#fdca26"],[1.0,"#f0f921"]]}],"contourcarpet":[{"type":"contourcarpet","colorbar":{"outlinewidth":0,"ticks":""}}],"contour":[{"type":"contour","colorbar":{"outlinewidth":0,"ticks":""},"colorscale":[[0.0,"#0d0887"],[0.1111111111111111,"#46039f"],[0.2222222222222222,"#7201a8"],[0.3333333333333333,"#9c179e"],[0.4444444444444444,"#bd3786"],[0.5555555555555556,"#d8576b"],[0.6666666666666666,"#ed7953"],[0.7777777777777778,"#fb9f3a"],[0.8888888888888888,"#fdca26"],[1.0,"#f0f921"]]}],"surface":[{"type":"surface","colorbar":{"outlinewidth":0,"ticks":""},"colorscale":[[0.0,"#0d0887"],[0.1111111111111111,"#46039f"],[0.2222222222222222,"#7201a8"],[0.3333333333333333,"#9c179e"],[0.4444444444444444,"#bd3786"],[0.5555555555555556,"#d8576b"],[0.6666666666666666,"#ed7953"],[0.7777777777777778,"#fb9f3a"],[0.8888888888888888,"#fdca26"],[1.0,"#f0f921"]]}],"mesh3d":[{"type":"mesh3d","colorbar":{"outlinewidth":0,"ticks":""}}],"scatter":[{"fillpattern":{"fillmode":"overlay","size":10,"solidity":0.2},"type":"scatter"}],"parcoords":[{"type":"parcoords","line":{"colorbar":{"outlinewidth":0,"ticks":""}}}],"scatterpolargl":[{"type":"scatterpolargl","marker":{"colorbar":{"outlinewidth":0,"ticks":""}}}],"bar":[{"error_x":{"color":"#2a3f5f"},"error_y":{"color":"#2a3f5f"},"marker":{"line":{"color":"#E5ECF6","width":0.5},"pattern":{"fillmode":"overlay","size":10,"solidity":0.2}},"type":"bar"}],"scattergeo":[{"type":"scattergeo","marker":{"colorbar":{"outlinewidth":0,"ticks":""}}}],"scatterpolar":[{"type":"scatterpolar","marker":{"colorbar":{"outlinewidth":0,"ticks":""}}}],"histogram":[{"marker":{"pattern":{"fillmode":"overlay","size":10,"solidity":0.2}},"type":"histogram"}],"scattergl":[{"type":"scattergl","marker":{"colorbar":{"outlinewidth":0,"ticks":""}}}],"scatter3d":[{"type":"scatter3d","line":{"colorbar":{"outlinewidth":0,"ticks":""}},"marker":{"colorbar":{"outlinewidth":0,"ticks":""}}}],"scattermapbox":[{"type":"scattermapbox","marker":{"colorbar":{"outlinewidth":0,"ticks":""}}}],"scatterternary":[{"type":"scatterternary","marker":{"colorbar":{"outlinewidth":0,"ticks":""}}}],"scattercarpet":[{"type":"scattercarpet","marker":{"colorbar":{"outlinewidth":0,"ticks":""}}}],"carpet":[{"aaxis":{"endlinecolor":"#2a3f5f","gridcolor":"white","linecolor":"white","minorgridcolor":"white","startlinecolor":"#2a3f5f"},"baxis":{"endlinecolor":"#2a3f5f","gridcolor":"white","linecolor":"white","minorgridcolor":"white","startlinecolor":"#2a3f5f"},"type":"carpet"}],"table":[{"cells":{"fill":{"color":"#EBF0F8"},"line":{"color":"white"}},"header":{"fill":{"color":"#C8D4E3"},"line":{"color":"white"}},"type":"table"}],"barpolar":[{"marker":{"line":{"color":"#E5ECF6","width":0.5},"pattern":{"fillmode":"overlay","size":10,"solidity":0.2}},"type":"barpolar"}],"pie":[{"automargin":true,"type":"pie"}]},"layout":{"autotypenumbers":"strict","colorway":["#636efa","#EF553B","#00cc96","#ab63fa","#FFA15A","#19d3f3","#FF6692","#B6E880","#FF97FF","#FECB52"],"font":{"color":"#2a3f5f"},"hovermode":"closest","hoverlabel":{"align":"left"},"paper_bgcolor":"white","plot_bgcolor":"#E5ECF6","polar":{"bgcolor":"#E5ECF6","angularaxis":{"gridcolor":"white","linecolor":"white","ticks":""},"radialaxis":{"gridcolor":"white","linecolor":"white","ticks":""}},"ternary":{"bgcolor":"#E5ECF6","aaxis":{"gridcolor":"white","linecolor":"white","ticks":""},"baxis":{"gridcolor":"white","linecolor":"white","ticks":""},"caxis":{"gridcolor":"white","linecolor":"white","ticks":""}},"coloraxis":{"colorbar":{"outlinewidth":0,"ticks":""}},"colorscale":{"sequential":[[0.0,"#0d0887"],[0.1111111111111111,"#46039f"],[0.2222222222222222,"#7201a8"],[0.3333333333333333,"#9c179e"],[0.4444444444444444,"#bd3786"],[0.5555555555555556,"#d8576b"],[0.6666666666666666,"#ed7953"],[0.7777777777777778,"#fb9f3a"],[0.8888888888888888,"#fdca26"],[1.0,"#f0f921"]],"sequentialminus":[[0.0,"#0d0887"],[0.1111111111111111,"#46039f"],[0.2222222222222222,"#7201a8"],[0.3333333333333333,"#9c179e"],[0.4444444444444444,"#bd3786"],[0.5555555555555556,"#d8576b"],[0.6666666666666666,"#ed7953"],[0.7777777777777778,"#fb9f3a"],[0.8888888888888888,"#fdca26"],[1.0,"#f0f921"]],"diverging":[[0,"#8e0152"],[0.1,"#c51b7d"],[0.2,"#de77ae"],[0.3,"#f1b6da"],[0.4,"#fde0ef"],[0.5,"#f7f7f7"],[0.6,"#e6f5d0"],[0.7,"#b8e186"],[0.8,"#7fbc41"],[0.9,"#4d9221"],[1,"#276419"]]},"xaxis":{"gridcolor":"white","linecolor":"white","ticks":"","title":{"standoff":15},"zerolinecolor":"white","automargin":true,"zerolinewidth":2},"yaxis":{"gridcolor":"white","linecolor":"white","ticks":"","title":{"standoff":15},"zerolinecolor":"white","automargin":true,"zerolinewidth":2},"scene":{"xaxis":{"backgroundcolor":"#E5ECF6","gridcolor":"white","linecolor":"white","showbackground":true,"ticks":"","zerolinecolor":"white","gridwidth":2},"yaxis":{"backgroundcolor":"#E5ECF6","gridcolor":"white","linecolor":"white","showbackground":true,"ticks":"","zerolinecolor":"white","gridwidth":2},"zaxis":{"backgroundcolor":"#E5ECF6","gridcolor":"white","linecolor":"white","showbackground":true,"ticks":"","zerolinecolor":"white","gridwidth":2}},"shapedefaults":{"line":{"color":"#2a3f5f"}},"annotationdefaults":{"arrowcolor":"#2a3f5f","arrowhead":0,"arrowwidth":1},"geo":{"bgcolor":"white","landcolor":"#E5ECF6","subunitcolor":"white","showland":true,"showlakes":true,"lakecolor":"white"},"title":{"x":0.05},"mapbox":{"style":"light"}}},"title":{"text":"Parcours consommateur (Sankey nettoy\u00e9)"},"font":{"size":10}},                        {"responsive": true}                    )                };                            </script>        </div>
+        <script charset="utf-8" src="https://cdn.plot.ly/plotly-2.24.1.min.js"></script>                <div id="5ee43536-596a-4572-8999-b008cfe2a49e" class="plotly-graph-div" style="height:100%; width:100%;"></div>            <script type="text/javascript">                                    window.PLOTLYENV=window.PLOTLYENV || {};                                    if (document.getElementById("5ee43536-596a-4572-8999-b008cfe2a49e")) {                    Plotly.newPlot(                        "5ee43536-596a-4572-8999-b008cfe2a49e",                        [{"link":{"source":[0,1,0,1,0,4,0,4,0,4,0,6,0,6,0,6,0,7,0,7,8,1,8,1,8,4,8,4,8,4,8,6,8,6,8,6,8,7,9,1,9,4,9,4,9,6,9,6,9,7,10,1,10,1,10,1,10,4,10,4,10,6,10,6,10,7,11,1,11,1,11,4,11,4,11,6,11,6,11,6,11,7,11,7,12,1,12,1,12,4,12,4,12,4,12,6,12,6,12,6,12,7,12,7,12,7],"target":[1,2,1,3,4,5,4,2,4,3,6,5,6,2,6,3,7,2,7,3,1,2,1,3,4,5,4,2,4,3,6,5,6,2,6,3,7,3,1,3,4,2,4,3,6,2,6,3,7,3,1,5,1,2,1,3,4,2,4,3,6,5,6,2,7,5,1,2,1,3,4,2,4,3,6,5,6,2,6,3,7,2,7,3,1,2,1,3,4,5,4,2,4,3,6,5,6,2,6,3,7,5,7,2,7,3],"value":[4,4,8,8,2,2,6,6,15,15,1,1,24,24,18,18,1,1,3,3,6,6,13,13,1,1,13,13,44,44,1,1,27,27,51,51,5,5,2,2,3,3,12,12,2,2,12,12,1,1,1,1,1,1,3,3,1,1,3,3,2,2,4,4,2,2,12,12,25,25,14,14,48,48,3,3,31,31,71,71,4,4,10,10,12,12,13,13,2,2,21,21,43,43,2,2,40,40,49,49,1,1,2,2,5,5]},"node":{"color":"#007BA7","label":["Au moins une fois par an","Friperie \u002f Seconde main","Non, mais je connais ces plateformes","Oui","Internet","Non, je ne connais pas ces plateformes","Magasin physique","March\u00e9 local","Au moins une fois par mois","Au moins une fois par semaine","Moins d'une fois par an","Tous les 2 \u00e0 3 mois","Tous les 4 \u00e0 6 mois"],"pad":15,"thickness":18},"type":"sankey"}],                        {"template":{"data":{"histogram2dcontour":[{"type":"histogram2dcontour","colorbar":{"outlinewidth":0,"ticks":""},"colorscale":[[0.0,"#0d0887"],[0.1111111111111111,"#46039f"],[0.2222222222222222,"#7201a8"],[0.3333333333333333,"#9c179e"],[0.4444444444444444,"#bd3786"],[0.5555555555555556,"#d8576b"],[0.6666666666666666,"#ed7953"],[0.7777777777777778,"#fb9f3a"],[0.8888888888888888,"#fdca26"],[1.0,"#f0f921"]]}],"choropleth":[{"type":"choropleth","colorbar":{"outlinewidth":0,"ticks":""}}],"histogram2d":[{"type":"histogram2d","colorbar":{"outlinewidth":0,"ticks":""},"colorscale":[[0.0,"#0d0887"],[0.1111111111111111,"#46039f"],[0.2222222222222222,"#7201a8"],[0.3333333333333333,"#9c179e"],[0.4444444444444444,"#bd3786"],[0.5555555555555556,"#d8576b"],[0.6666666666666666,"#ed7953"],[0.7777777777777778,"#fb9f3a"],[0.8888888888888888,"#fdca26"],[1.0,"#f0f921"]]}],"heatmap":[{"type":"heatmap","colorbar":{"outlinewidth":0,"ticks":""},"colorscale":[[0.0,"#0d0887"],[0.1111111111111111,"#46039f"],[0.2222222222222222,"#7201a8"],[0.3333333333333333,"#9c179e"],[0.4444444444444444,"#bd3786"],[0.5555555555555556,"#d8576b"],[0.6666666666666666,"#ed7953"],[0.7777777777777778,"#fb9f3a"],[0.8888888888888888,"#fdca26"],[1.0,"#f0f921"]]}],"heatmapgl":[{"type":"heatmapgl","colorbar":{"outlinewidth":0,"ticks":""},"colorscale":[[0.0,"#0d0887"],[0.1111111111111111,"#46039f"],[0.2222222222222222,"#7201a8"],[0.3333333333333333,"#9c179e"],[0.4444444444444444,"#bd3786"],[0.5555555555555556,"#d8576b"],[0.6666666666666666,"#ed7953"],[0.7777777777777778,"#fb9f3a"],[0.8888888888888888,"#fdca26"],[1.0,"#f0f921"]]}],"contourcarpet":[{"type":"contourcarpet","colorbar":{"outlinewidth":0,"ticks":""}}],"contour":[{"type":"contour","colorbar":{"outlinewidth":0,"ticks":""},"colorscale":[[0.0,"#0d0887"],[0.1111111111111111,"#46039f"],[0.2222222222222222,"#7201a8"],[0.3333333333333333,"#9c179e"],[0.4444444444444444,"#bd3786"],[0.5555555555555556,"#d8576b"],[0.6666666666666666,"#ed7953"],[0.7777777777777778,"#fb9f3a"],[0.8888888888888888,"#fdca26"],[1.0,"#f0f921"]]}],"surface":[{"type":"surface","colorbar":{"outlinewidth":0,"ticks":""},"colorscale":[[0.0,"#0d0887"],[0.1111111111111111,"#46039f"],[0.2222222222222222,"#7201a8"],[0.3333333333333333,"#9c179e"],[0.4444444444444444,"#bd3786"],[0.5555555555555556,"#d8576b"],[0.6666666666666666,"#ed7953"],[0.7777777777777778,"#fb9f3a"],[0.8888888888888888,"#fdca26"],[1.0,"#f0f921"]]}],"mesh3d":[{"type":"mesh3d","colorbar":{"outlinewidth":0,"ticks":""}}],"scatter":[{"fillpattern":{"fillmode":"overlay","size":10,"solidity":0.2},"type":"scatter"}],"parcoords":[{"type":"parcoords","line":{"colorbar":{"outlinewidth":0,"ticks":""}}}],"scatterpolargl":[{"type":"scatterpolargl","marker":{"colorbar":{"outlinewidth":0,"ticks":""}}}],"bar":[{"error_x":{"color":"#2a3f5f"},"error_y":{"color":"#2a3f5f"},"marker":{"line":{"color":"#E5ECF6","width":0.5},"pattern":{"fillmode":"overlay","size":10,"solidity":0.2}},"type":"bar"}],"scattergeo":[{"type":"scattergeo","marker":{"colorbar":{"outlinewidth":0,"ticks":""}}}],"scatterpolar":[{"type":"scatterpolar","marker":{"colorbar":{"outlinewidth":0,"ticks":""}}}],"histogram":[{"marker":{"pattern":{"fillmode":"overlay","size":10,"solidity":0.2}},"type":"histogram"}],"scattergl":[{"type":"scattergl","marker":{"colorbar":{"outlinewidth":0,"ticks":""}}}],"scatter3d":[{"type":"scatter3d","line":{"colorbar":{"outlinewidth":0,"ticks":""}},"marker":{"colorbar":{"outlinewidth":0,"ticks":""}}}],"scattermapbox":[{"type":"scattermapbox","marker":{"colorbar":{"outlinewidth":0,"ticks":""}}}],"scatterternary":[{"type":"scatterternary","marker":{"colorbar":{"outlinewidth":0,"ticks":""}}}],"scattercarpet":[{"type":"scattercarpet","marker":{"colorbar":{"outlinewidth":0,"ticks":""}}}],"carpet":[{"aaxis":{"endlinecolor":"#2a3f5f","gridcolor":"white","linecolor":"white","minorgridcolor":"white","startlinecolor":"#2a3f5f"},"baxis":{"endlinecolor":"#2a3f5f","gridcolor":"white","linecolor":"white","minorgridcolor":"white","startlinecolor":"#2a3f5f"},"type":"carpet"}],"table":[{"cells":{"fill":{"color":"#EBF0F8"},"line":{"color":"white"}},"header":{"fill":{"color":"#C8D4E3"},"line":{"color":"white"}},"type":"table"}],"barpolar":[{"marker":{"line":{"color":"#E5ECF6","width":0.5},"pattern":{"fillmode":"overlay","size":10,"solidity":0.2}},"type":"barpolar"}],"pie":[{"automargin":true,"type":"pie"}]},"layout":{"autotypenumbers":"strict","colorway":["#636efa","#EF553B","#00cc96","#ab63fa","#FFA15A","#19d3f3","#FF6692","#B6E880","#FF97FF","#FECB52"],"font":{"color":"#2a3f5f"},"hovermode":"closest","hoverlabel":{"align":"left"},"paper_bgcolor":"white","plot_bgcolor":"#E5ECF6","polar":{"bgcolor":"#E5ECF6","angularaxis":{"gridcolor":"white","linecolor":"white","ticks":""},"radialaxis":{"gridcolor":"white","linecolor":"white","ticks":""}},"ternary":{"bgcolor":"#E5ECF6","aaxis":{"gridcolor":"white","linecolor":"white","ticks":""},"baxis":{"gridcolor":"white","linecolor":"white","ticks":""},"caxis":{"gridcolor":"white","linecolor":"white","ticks":""}},"coloraxis":{"colorbar":{"outlinewidth":0,"ticks":""}},"colorscale":{"sequential":[[0.0,"#0d0887"],[0.1111111111111111,"#46039f"],[0.2222222222222222,"#7201a8"],[0.3333333333333333,"#9c179e"],[0.4444444444444444,"#bd3786"],[0.5555555555555556,"#d8576b"],[0.6666666666666666,"#ed7953"],[0.7777777777777778,"#fb9f3a"],[0.8888888888888888,"#fdca26"],[1.0,"#f0f921"]],"sequentialminus":[[0.0,"#0d0887"],[0.1111111111111111,"#46039f"],[0.2222222222222222,"#7201a8"],[0.3333333333333333,"#9c179e"],[0.4444444444444444,"#bd3786"],[0.5555555555555556,"#d8576b"],[0.6666666666666666,"#ed7953"],[0.7777777777777778,"#fb9f3a"],[0.8888888888888888,"#fdca26"],[1.0,"#f0f921"]],"diverging":[[0,"#8e0152"],[0.1,"#c51b7d"],[0.2,"#de77ae"],[0.3,"#f1b6da"],[0.4,"#fde0ef"],[0.5,"#f7f7f7"],[0.6,"#e6f5d0"],[0.7,"#b8e186"],[0.8,"#7fbc41"],[0.9,"#4d9221"],[1,"#276419"]]},"xaxis":{"gridcolor":"white","linecolor":"white","ticks":"","title":{"standoff":15},"zerolinecolor":"white","automargin":true,"zerolinewidth":2},"yaxis":{"gridcolor":"white","linecolor":"white","ticks":"","title":{"standoff":15},"zerolinecolor":"white","automargin":true,"zerolinewidth":2},"scene":{"xaxis":{"backgroundcolor":"#E5ECF6","gridcolor":"white","linecolor":"white","showbackground":true,"ticks":"","zerolinecolor":"white","gridwidth":2},"yaxis":{"backgroundcolor":"#E5ECF6","gridcolor":"white","linecolor":"white","showbackground":true,"ticks":"","zerolinecolor":"white","gridwidth":2},"zaxis":{"backgroundcolor":"#E5ECF6","gridcolor":"white","linecolor":"white","showbackground":true,"ticks":"","zerolinecolor":"white","gridwidth":2}},"shapedefaults":{"line":{"color":"#2a3f5f"}},"annotationdefaults":{"arrowcolor":"#2a3f5f","arrowhead":0,"arrowwidth":1},"geo":{"bgcolor":"white","landcolor":"#E5ECF6","subunitcolor":"white","showland":true,"showlakes":true,"lakecolor":"white"},"title":{"x":0.05},"mapbox":{"style":"light"}}},"title":{"text":"Parcours consommateur (Sankey nettoy\u00e9)"},"font":{"size":10}},                        {"responsive": true}                    )                };                            </script>        </div>
 </body>
 </html>

diff --git a/notebooks/pipeline_visualisations.py b/notebooks/pipeline_visualisations.py
@@ -360,24 +360,63 @@ for c in likert_5:
 req = ["Souci_Ethique", "Utilise_FastFashion"]
 if all(c in df.columns for c in req):
     d = df.copy()
-    d["FF_Oui"] = d["Utilise_FastFashion"].astype(str).str.contains("oui", case=False, na=False)
-    d["Ethique_Haute"] = d["Souci_Ethique"] >= 7
 
-    d["Comportement"] = "Autres"
-    d.loc[d["Ethique_Haute"] & d["FF_Oui"], "Comportement"] = "DIT éthique\nMAIS FF"
-    d.loc[d["Ethique_Haute"] & ~d["FF_Oui"], "Comportement"] = "DIT éthique\nET cohérent"
-    d.loc[~d["Ethique_Haute"] & d["FF_Oui"], "Comportement"] = "NE S'EN SOUCIE PAS\nET FF"
+    # 1) FastFashion: on force une lecture Oui/Non, sinon NaN -> "Autres"
+    ff_txt = d["Utilise_FastFashion"].astype(str).str.strip().str.lower()
 
+    d["FF"] = np.select(
+        [
+            ff_txt.str.contains(r"\boui\b", na=False),
+            ff_txt.str.contains(r"\bnon\b", na=False),
+        ],
+        [1, 0],
+        default=np.nan
+    )
+
+    # 2) Souci éthique: numeric + seuil
+    d["Souci_Ethique_num"] = pd.to_numeric(d["Souci_Ethique"], errors="coerce")
+    d["Ethique_Haute"] = d["Souci_Ethique_num"] >= 7
+
+    # 3) Groupes (4 cas) + Autres = seulement si on ne peut pas classer
+    d["Comportement"] = "Autres (données manquantes / non interprétables)"
+
+    d.loc[d["Ethique_Haute"] & (d["FF"] == 1), "Comportement"] = (
+        "Souci éthique élevé, mais achat de fast fashion"
+    )
+    d.loc[(~d["Ethique_Haute"]) & (d["FF"] == 1), "Comportement"] = (
+        "Souci éthique faible, et achat de fast fashion"
+    )
+    d.loc[d["Ethique_Haute"] & (d["FF"] == 0), "Comportement"] = (
+        "Souci éthique élevé, et pas de fast fashion (cohérent)"
+    )
+    d.loc[(~d["Ethique_Haute"]) & (d["FF"] == 0), "Comportement"] = (
+        "Souci éthique faible, et pas de fast fashion"
+    )
+
+    # 4) Pourcentages + ordre (labels non abrégés)
     counts = d["Comportement"].value_counts(normalize=True) * 100
-    order = ["DIT éthique\nMAIS FF", "NE S'EN SOUCIE PAS\nET FF", "DIT éthique\nET cohérent", "Autres"]
+
+    order = [
+        "Souci éthique élevé, mais achat de fast fashion",
+        "Souci éthique faible, et achat de fast fashion",
+        "Souci éthique élevé, et pas de fast fashion (cohérent)",
+        "Souci éthique faible, et pas de fast fashion",
+        "Autres (données manquantes / non interprétables)",
+    ]
     counts = counts.reindex(order).fillna(0)
 
-    plt.figure(figsize=(10, 5))
+    # 5) Plot
+    plt.figure(figsize=(12, 6))
     plt.barh(counts.index, counts.values, edgecolor="black")
     plt.gca().invert_yaxis()
     plt.title("Le Grand Paradoxe : discours vs réalité", fontweight="bold")
     plt.xlabel("%")
+    plt.ylabel("")
     export_png(FIG_DIR / "grand_paradoxe.png")
+
+    # (Optionnel) debug: voir ce que contient "Autres"
+    # print(d.loc[d["Comportement"].str.startswith("Autres"), "Utilise_FastFashion"].value_counts(dropna=False).head(20))
+
 else:
     warnings.warn("Grand paradoxe ignoré (colonnes manquantes).")
 
